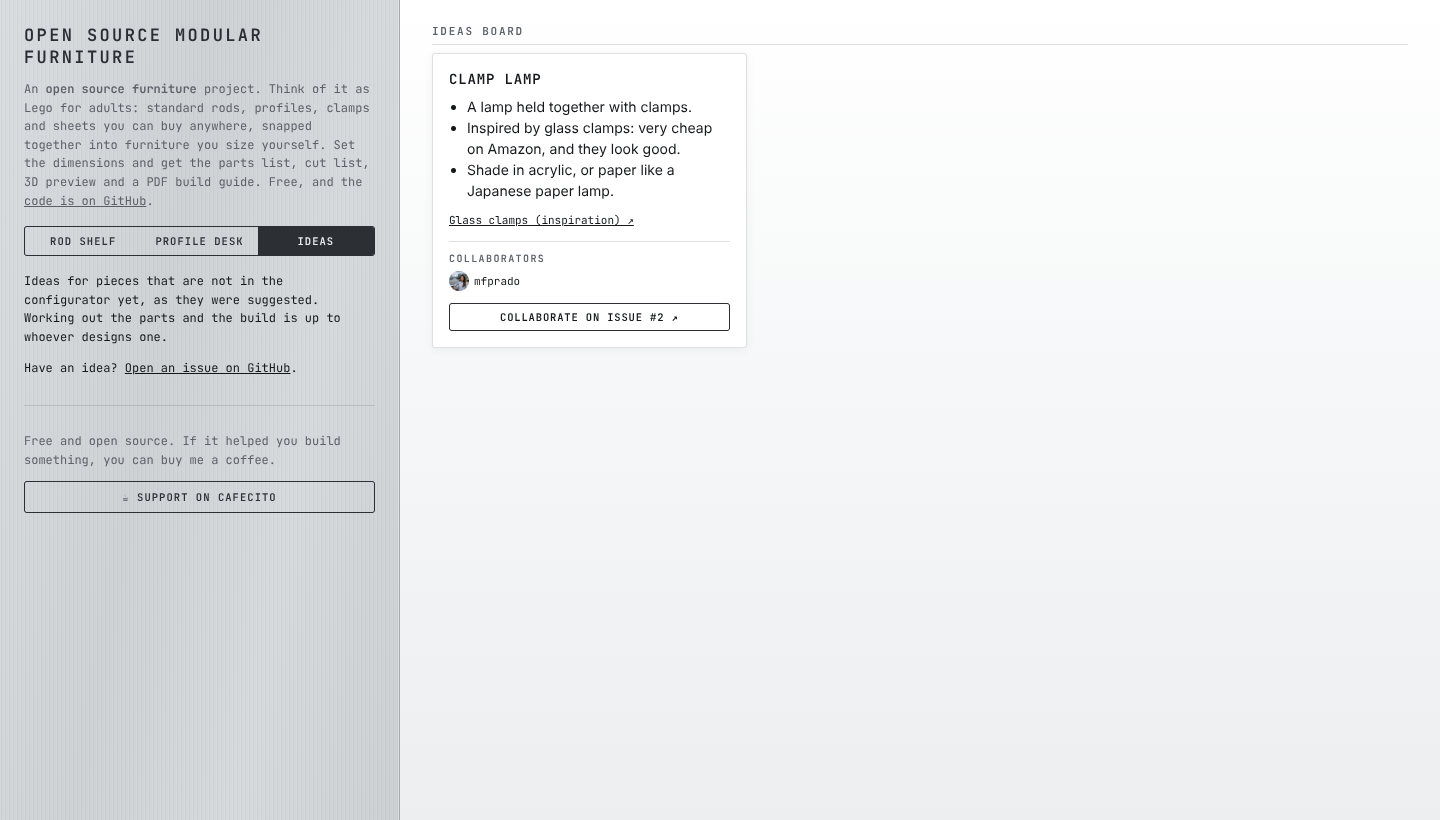
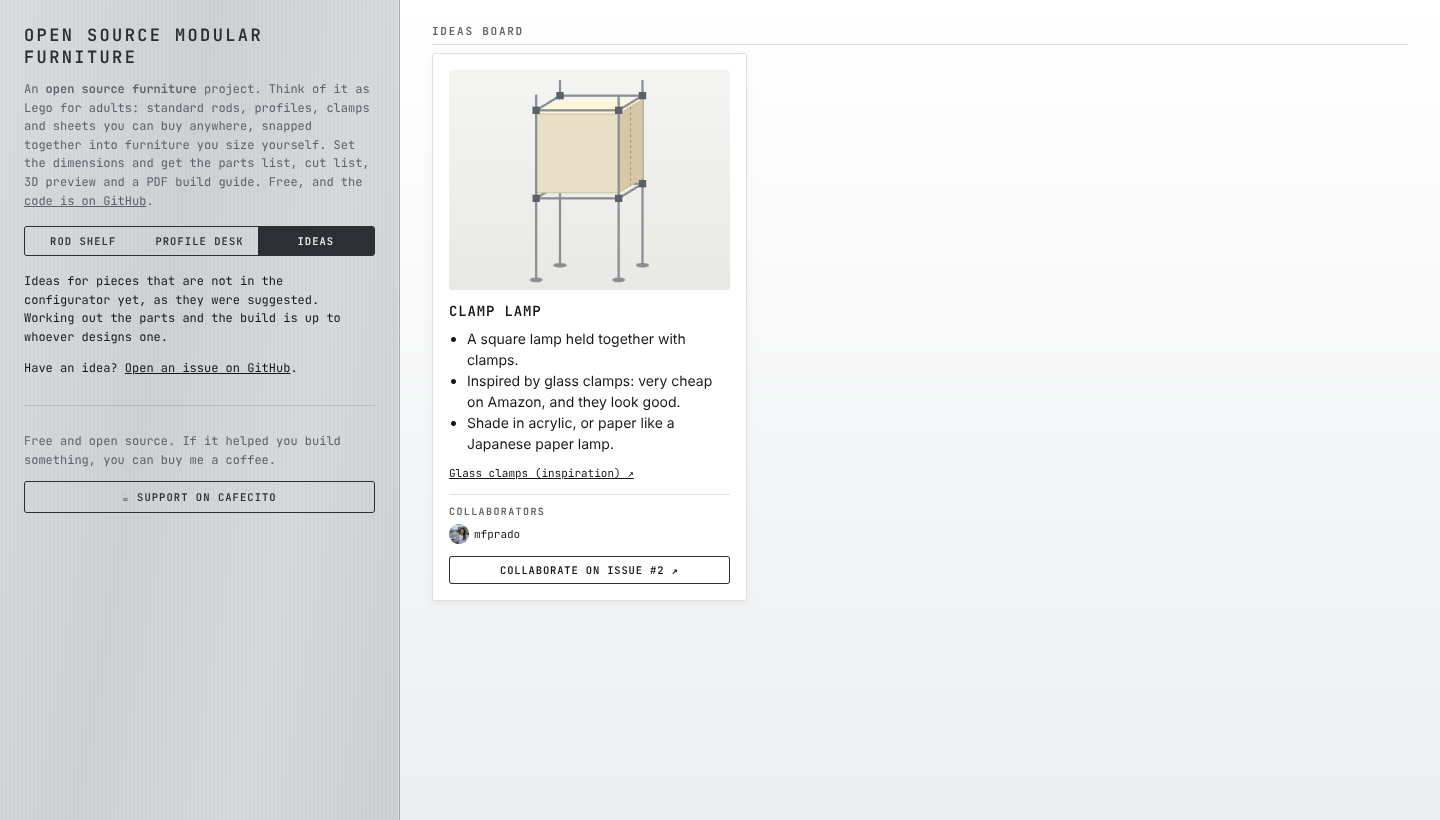
Draw a sketch on idea cards from a reference image; sketch the square clamp lamp
When an idea comes with a picture of the goal, the add-idea skill now
traces it as an inline SVG sketch instead of showing the photo. The
clamp lamp gets one, traced from a square paper lamp on thin clamped
legs. Collaborators no longer leave an empty divider when the GitHub
API is unavailable.

Claude-Session: https://claude.ai/code/session_01An6R87UyTSMBG4BNsnFUWn

Changed region(s): [[0.3125, 0.0915, 0.5312, 0.5488], [0.3438, 0.6707, 0.4688, 0.7012], [0.3125, 0.6098, 0.375, 0.6707]]

diff --git a/src/ideas.js b/src/ideas.js
@@ -9,12 +9,23 @@ export const IDEAS = [
   {
     title: 'Clamp lamp',
     points: [
-      'A lamp held together with clamps.',
+      'A square lamp held together with clamps.',
       'Inspired by glass clamps: very cheap on Amazon, and they look good.',
       'Shade in acrylic, or paper like a Japanese paper lamp.',
     ],
     links: [{ name: 'Glass clamps (inspiration)', url: 'https://amzn.eu/d/0eu2PAy3' }],
     issue: 2,
+    // traced from the reference photo: thin rod legs, clamped square frames, paper cube
+    sketch: `<svg viewBox="0 0 200 240" role="img" aria-label="Sketch: square paper shade on four thin legs, held by clamped rod frames">
+      <g stroke="#8a8f94" stroke-width="2.5" stroke-linecap="round"><line x1="68" y1="212" x2="68" y2="12"/><line x1="158" y1="212" x2="158" y2="12"/><line x1="42" y1="140" x2="68" y2="124"/><line x1="68" y1="124" x2="158" y2="124"/><line x1="42" y1="44" x2="68" y2="28"/><line x1="68" y1="28" x2="158" y2="28"/></g>
+      <polygon points="42,48 132,48 158,32 68,32" fill="#fff6dc"/>
+      <rect x="42" y="48" width="90" height="86" fill="#e9dfc7" stroke="#cbbd99"/>
+      <polygon points="132,48 158,32 158,118 132,134" fill="#d6c8a6" stroke="#cbbd99"/>
+      <line x1="145.0" y1="40.0" x2="145.0" y2="126.0" stroke="#9c8d6c" stroke-dasharray="3 3"/>
+      <g stroke="#8a8f94" stroke-width="2.5" stroke-linecap="round"><line x1="42" y1="228" x2="42" y2="28"/><line x1="132" y1="228" x2="132" y2="28"/><line x1="42" y1="140" x2="132" y2="140"/><line x1="132" y1="140" x2="158" y2="124"/><line x1="42" y1="44" x2="132" y2="44"/><line x1="132" y1="44" x2="158" y2="28"/></g>
+      <g fill="#5b6168"><rect x="38" y="40" width="8" height="8"/><rect x="128" y="40" width="8" height="8"/><rect x="154" y="24" width="8" height="8"/><rect x="64" y="24" width="8" height="8"/><rect x="38" y="136" width="8" height="8"/><rect x="128" y="136" width="8" height="8"/><rect x="154" y="120" width="8" height="8"/></g>
+      <g fill="#8a8f94"><ellipse cx="42" cy="229" rx="7" ry="2.5"/><ellipse cx="132" cy="229" rx="7" ry="2.5"/><ellipse cx="68" cy="213" rx="7" ry="2.5"/><ellipse cx="158" cy="213" rx="7" ry="2.5"/></g>
+    </svg>`,
   },
 ];
 
@@ -24,7 +35,7 @@ const issueUrl = (n) => `https://github.com/${REPO}/issues/${n}`;
 export function ideaCard(idea) {
   const links = idea.links ?? [];
   return `<article class="idea">
-    ${idea.image ? `<img class="photo" src="${esc(idea.image)}" alt="" />` : ''}
+    ${idea.sketch ? `<div class="sketch">${idea.sketch}</div>` : idea.image ? `<img class="photo" src="${esc(idea.image)}" alt="" />` : ''}
     <h3>${esc(idea.title)}</h3>
     <ul>${idea.points.map((p) => `<li>${esc(p)}</li>`).join('')}</ul>
     ${links.length ? `<p class="links">${links.map((l) => `<a href="${esc(l.url)}" target="_blank" rel="noopener">${esc(l.name)} ↗</a>`).join('')}</p>` : ''}

diff --git a/index.html b/index.html
@@ -120,12 +120,14 @@
     #ideas > h2 { margin-top: 0; }
     #ideaList { display: grid; grid-template-columns: repeat(auto-fill, minmax(300px, 1fr)); gap: 16px; align-items: start; }
     .idea { padding: 16px; background: #fff; border: 1px solid var(--line); border-radius: 3px; box-shadow: 0 2px 8px rgba(0,0,0,.05); }
+    .idea .sketch svg { display: block; width: 100%; height: 220px; margin-bottom: 12px; background: linear-gradient(#f4f4f2, #e8e8e5); border-radius: 3px; }
     .idea .photo { display: block; width: 100%; max-height: 200px; object-fit: contain; margin-bottom: 12px; }
     .idea h3 { margin: 0 0 8px; font: 600 14px var(--mono); text-transform: uppercase; letter-spacing: .06em; }
     .idea ul { margin: 0; padding-left: 18px; }
     .idea .links { display: flex; flex-wrap: wrap; gap: 4px 14px; margin: 12px 0 0; font: 11px var(--mono); }
     .idea a { color: var(--ink); }
     .idea .people { display: flex; flex-wrap: wrap; gap: 6px 12px; margin-top: 14px; padding-top: 10px; border-top: 1px solid var(--line); font: 11px var(--mono); }
+    .idea .people:empty { display: none; }
     .idea .people h4 { flex-basis: 100%; margin: 0; font: 600 10px var(--mono); text-transform: uppercase; letter-spacing: .14em; color: var(--muted); }
     .idea .people a { display: inline-flex; align-items: center; gap: 5px; text-decoration: none; }
     .idea .people img { width: 20px; height: 20px; border-radius: 50%; }

diff --git a/.claude/skills/add-idea/SKILL.md b/.claude/skills/add-idea/SKILL.md
@@ -26,7 +26,8 @@ Each idea is one entry in `IDEAS` in `src/ideas.js`:
   ],
   links: [{ name: 'Glass clamps (inspiration)', url: 'https://…' }], // optional
   issue: 12,                      // the GitHub issue: link and collaborators
-  image: 'https://…',             // optional: a picture the proposer shared
+  sketch: `<svg …>`,              // optional: drawn from a reference image, see below
+  image: 'https://…',             // optional: a picture the proposer made themselves
 }
 ```
 
@@ -41,16 +42,37 @@ Each idea is one entry in `IDEAS` in `src/ideas.js`:
   later. If the proposer included them, keep them only if they are the idea itself.
 - **Don't invent facts.** No prices, sizes or specs that the issue doesn't give. If a link
   can't be read, keep it with a plain name and don't describe what's behind it.
-- **Images only from the issue.** Use a picture the proposer attached (its
-  `github.com/user-attachments/…` URL). Never hotlink shop images.
+- **A reference image becomes a sketch.** When the proposer shares a picture of the goal
+  ("a square lamp like this"), draw a sketch of it in `sketch` rather than showing the
+  photo. Photos of other people's products aren't ours to republish, and sketches keep the
+  board consistent. See *Drawing the sketch*.
+- **`image` only for the proposer's own picture**, such as a photo of something they built,
+  using the `github.com/user-attachments/…` URL from the issue. Never hotlink shop images.
 - New ideas go at the end of `IDEAS`.
+
+## Drawing the sketch
+
+A sketch shows what the idea looks like. It is not a design.
+
+- Trace what is in the picture: the overall shape and proportions, the main members (legs,
+  frames, rails), the panels or shade, and visible clamps or joints. Nothing that isn't
+  in the picture: no dimensions, labels, hidden parts or invented details.
+- Inline SVG, `viewBox="0 0 200 240"`, three-quarter view, with `role="img"` and an
+  `aria-label` that says what it shows ("Sketch: square paper shade on four thin legs…").
+- Flat fills in the board's palette: rods and frames `#8a8f94`, clamps `#5b6168`, paper
+  `#e9dfc7` / `#d6c8a6`, glow `#fff6dc`, acrylic `rgba(160,200,215,.45)`. No gradients,
+  text or external images.
+- Draw back members first, then panels, then front members, so the front rods sit on top.
+- Add a one-line comment above `sketch` saying what it was traced from.
+- Check it in the screenshot next to the reference image: does it read as the same piece?
 
 ## Steps
 
 1. Read the issue (title, body, comments from the proposer). If the idea isn't clear enough
    for one bullet point, ask on the issue instead of guessing. If the idea came from
    somewhere else (a chat, a message), open an issue for it first with the `idea` label.
-2. Add the entry to `src/ideas.js`, with `issue` set.
+2. Add the entry to `src/ideas.js`, with `issue` set. If the issue or the request has a
+   reference image, draw its `sketch`.
 3. Run `node --test`.
 4. Serve the folder (`python3 -m http.server 8000`), open the Ideas tab and take a
    screenshot of the board.

diff --git a/README.md b/README.md
@@ -39,10 +39,12 @@ what goes on one. To run it with [Claude Code](https://claude.com/claude-code):
    ```
 
    or just ask: `add the idea from issue #12 to the board`.
-3. Claude reads the issue, adds the entry to `src/ideas.js`, runs `node --test`, takes a
-   screenshot of the board and opens a PR that references the issue (`Refs #12`, never
-   `Closes`, so the issue stays open).
-4. Review the card wording against the issue and merge.
+3. Claude reads the issue, adds the entry to `src/ideas.js`, draws a sketch if the issue
+   has a picture of the goal (for example "a square lamp like this" plus a photo), runs
+   `node --test`, takes a screenshot of the board and opens a PR that references the
+   issue (`Refs #12`, never `Closes`, so the issue stays open).
+4. Review the card wording against the issue, and the sketch against the picture, then
+   merge.
 
 Without Claude Code, follow the same rules by hand: copy an entry in `src/ideas.js`,
 keep the proposer's words, add `issue`, and reference the issue in the PR without

diff --git a/.github/ISSUE_TEMPLATE/idea.md b/.github/ISSUE_TEMPLATE/idea.md
@@ -9,4 +9,4 @@ labels: idea
 <!-- A sentence or a few bullet points. No need to work out parts or assembly. -->
 
 **Inspiration**
-<!-- Optional: links or pictures of what inspired it. -->
+<!-- Optional: links, and pictures of what it should look like. A picture of the goal gets turned into a sketch on the board. -->
